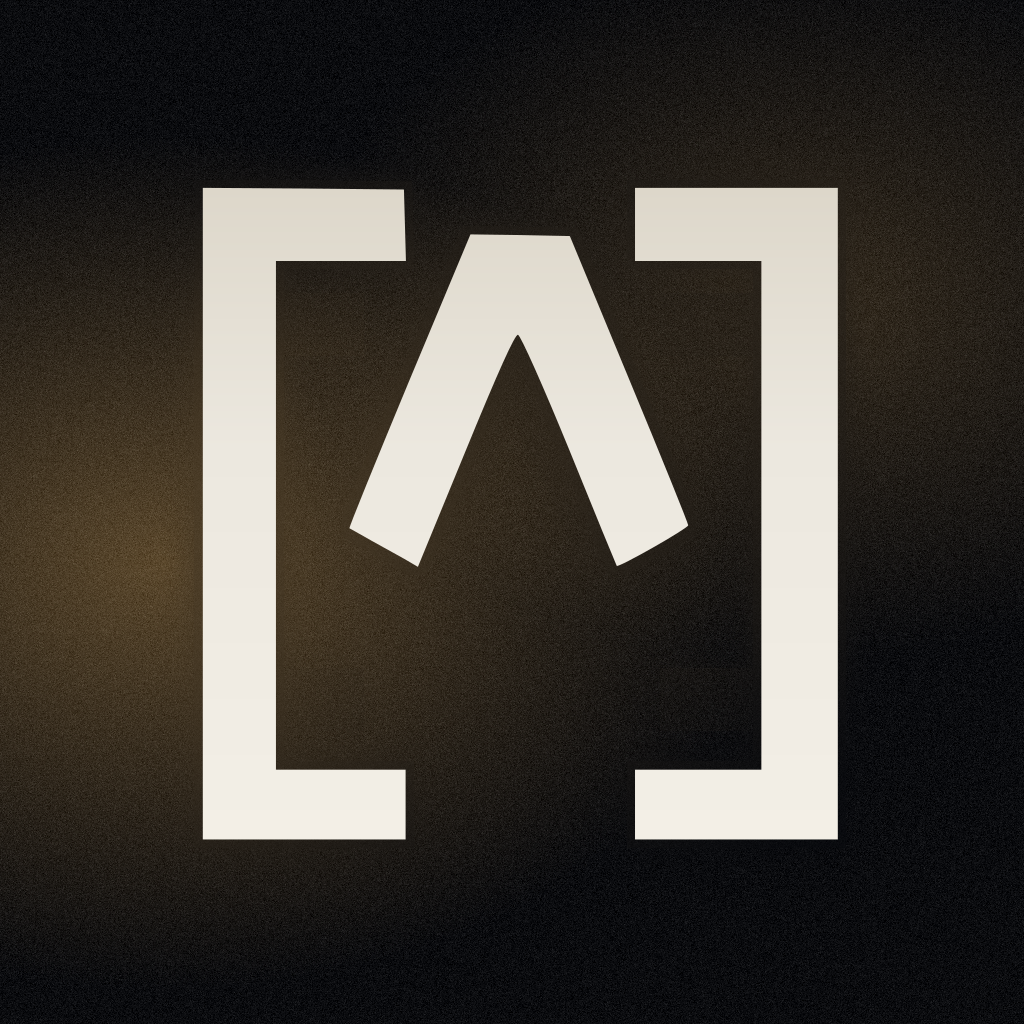
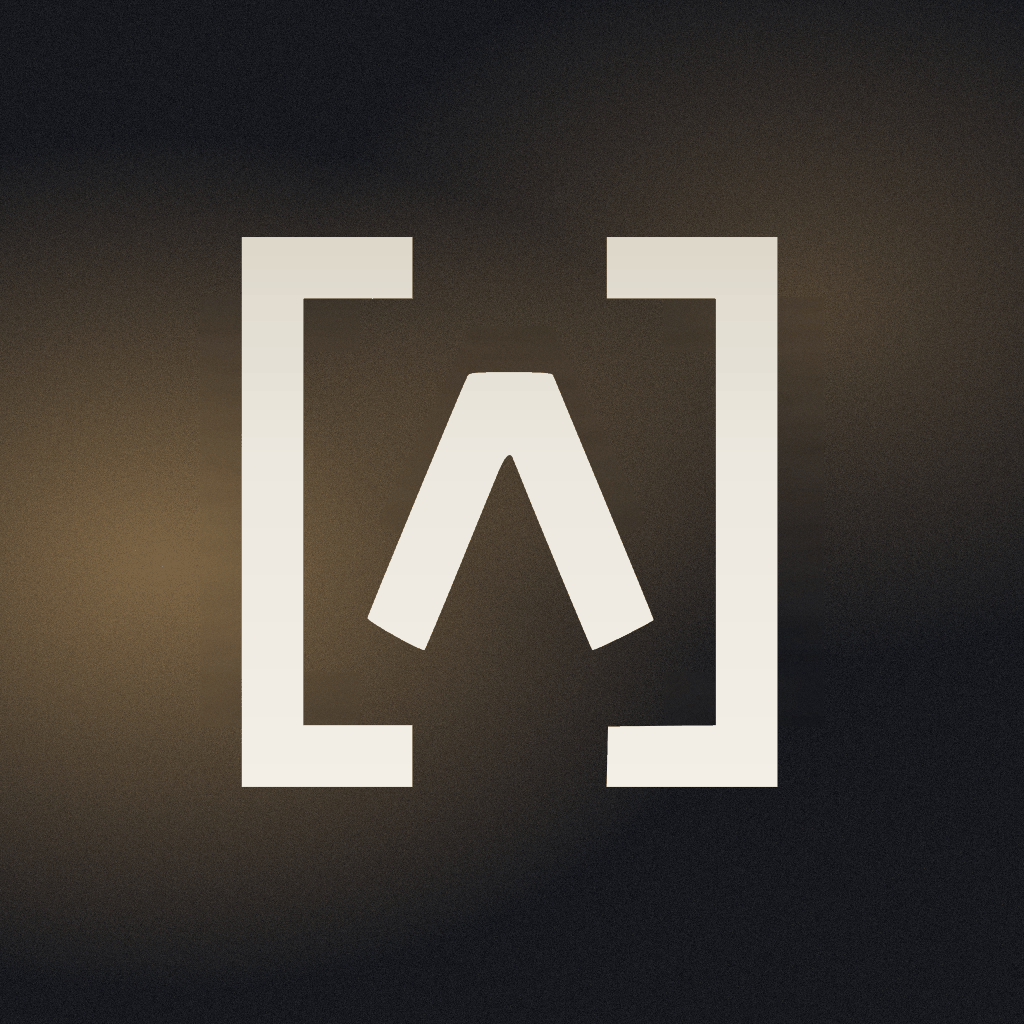
feat(site): adopt the new bracket-A mark for Armitage
- use the traced mark in the chapter icon at 11 of 16 units
- recomposite the avatar on the original background with a lighter glow

diff --git a/index.html b/index.html
@@ -143,7 +143,8 @@
                 <div class="kicker">A project by <a href="https://renanbomtempo.me" target="_blank" rel="noopener">Renan
                         Bomtempo</a></div>
                 <h1><span class="sr-only">EldritchCodex: </span>Exploring <em>rendering</em> and
-                    <em>simulation</em><br>from <em>first principles</em>.</h1>
+                    <em>simulation</em><br>from <em>first principles</em>.
+                </h1>
                 <p>
                     EldritchCodex is an open-source project where I build what I want to understand: Nodens, a
                     C++23 application framework; Nyar, a Vulkan renderer; and Armitage, an agent that keeps my
@@ -200,7 +201,8 @@
             <a class="cell cell--compact col-4 index-card" href="#armitage">
                 <div class="index-meta"><span>III. Python 3.14</span><span>Agent, Skillset &amp; CLI</span></div>
                 <h2>Armitage <span class="arrow">↘</span></h2>
-                <p>Source-grounded agent skills and CLI, best in Zed through the Pi harness and ACP, where it is most thoroughly tested.</p>
+                <p>Source-grounded agent skills and CLI, best in Zed through the Pi harness and ACP, where it is most
+                    thoroughly tested.</p>
             </a>
         </section>
 
@@ -227,7 +229,9 @@
                         Nodens
                     </h2>
                     <p>
-                        A C++23 framework for building interactive desktop applications quickly, with optional Dear ImGui. Everything is a C++ module, so an app starts with <code>import nodens;</code> and links one static library.
+                        A C++23 framework for building interactive desktop applications quickly, with optional Dear
+                        ImGui. Everything is a C++ module, so an app starts with <code>import nodens;</code> and links
+                        one static library.
                     </p>
                 </div>
                 <div class="chapter-stack dep-strip">
@@ -236,11 +240,9 @@
                     <a href="https://www.vulkan.org/" target="_blank" rel="noopener">Vulkan</a>
                     <a href="https://www.glfw.org/" target="_blank" rel="noopener">GLFW</a>
                     <a href="https://glad.dav1d.de/" target="_blank" rel="noopener">GLAD</a>
-                    <a href="https://github.com/ocornut/imgui" target="_blank"
-                        rel="noopener">ImGui</a>
+                    <a href="https://github.com/ocornut/imgui" target="_blank" rel="noopener">ImGui</a>
                     <a href="https://github.com/epezent/implot" target="_blank" rel="noopener">ImPlot</a>
-                    <a href="https://github.com/brenocq/implot3d" target="_blank"
-                        rel="noopener">ImPlot3D</a>
+                    <a href="https://github.com/brenocq/implot3d" target="_blank" rel="noopener">ImPlot3D</a>
                     <a href="https://github.com/gabime/spdlog" target="_blank" rel="noopener">spdlog</a>
                     <a href="https://github.com/wolfpld/tracy" target="_blank" rel="noopener">Tracy</a>
                 </div>
@@ -272,7 +274,8 @@
                 <div class="cell cell--compact col-3 pillar">
                     <span class="idx">03 · Messaging</span>
                     <h4>Event system</h4>
-                    <p>Input events pass down the layers. A thread-safe event bus lets any part publish and subscribe to custom events, handled immediately or queued.</p>
+                    <p>Input events pass down the layers. A thread-safe event bus lets any part publish and subscribe to
+                        custom events, handled immediately or queued.</p>
                 </div>
                 <div class="cell cell--compact col-3 pillar">
                     <span class="idx">04 · Concurrency</span>
@@ -341,14 +344,15 @@
                         Nyar
                     </h2>
                     <p>
-                        A real-time Vulkan 1.3 renderer, built as a separate module for Nodens as a learning exercise. It starts from the Khronos "Drawing a triangle" tutorial and is refactored step by step into a clean rendering API.
+                        A real-time Vulkan 1.3 renderer, built as a separate module for Nodens as a learning exercise.
+                        It starts from the Khronos "Drawing a triangle" tutorial and is refactored step by step into a
+                        clean rendering API.
                     </p>
                 </div>
                 <div class="chapter-stack dep-strip">
                     <span class="label">Stack:</span>
                     <a href="https://en.cppreference.com/w/cpp/23" target="_blank" rel="noopener">C++</a>
-                    <a href="https://docs.vulkan.org/spec/latest/index.html" target="_blank"
-                        rel="noopener">Vulkan</a>
+                    <a href="https://docs.vulkan.org/spec/latest/index.html" target="_blank" rel="noopener">Vulkan</a>
                     <a href="https://github.com/KhronosGroup/Vulkan-Hpp" target="_blank" rel="noopener">Vulkan-Hpp</a>
                     <a href="https://github.com/shader-slang/slang" target="_blank" rel="noopener">Slang</a>
                     <a href="https://www.glfw.org/" target="_blank" rel="noopener">GLFW</a>
@@ -423,11 +427,9 @@
                     </div>
                     <h2 class="has-mark">
                         <svg class="chapter-mark" viewBox="0 0 16 16" fill="none" aria-hidden="true">
-                            <g transform="translate(-0.198 11.035) scale(0.00976 -0.00976)" fill="currentColor">
-                                <path transform="translate(0 0)" d="M183 -138V760H507V661H302V-39H507V-138Z" />
-                                <path transform="translate(540 0)"
-                                    d="M456 239 303 562H291L138 239L27 293L222 698H379L573 293Z" />
-                                <path transform="translate(1080 0)" d="M417 760V-138H93V-39H298V661H93V760Z" />
+                            <g transform="translate(2.5 13.5) scale(0.0044 -0.0044)" fill="currentColor">
+                                <path
+                                    d="M120 1240 l0 -1160 360 0 360 0 0 130 0 130 -230 0 -230 0 0 900 0 900 230 0 230 0 0 130 0 130 -360 0 -360 0 0 -1160z M1660 2270 l0 -130 230 0 230 0 0 -900 0 -900 -227 -2 -228 -3 -3 -127 -3 -128 361 0 360 0 0 1160 0 1160 -360 0 -360 0 0 -130z M1072 1813 c-21 -40 -422 -1010 -422 -1020 0 -15 232 -145 241 -135 4 4 69 158 144 342 75 184 150 368 167 408 28 68 49 88 61 60 96 -241 330 -805 336 -811 5 -5 233 107 259 128 1 1 -93 231 -209 511 -116 280 -213 515 -216 522 -4 9 -49 12 -179 12 -155 0 -174 -2 -182 -17z" />
                             </g>
                         </svg>
                         Armitage
@@ -452,10 +454,8 @@
                     <a href="https://docs.trychroma.com/" target="_blank" rel="noopener">ChromaDB</a>
                     <a href="https://ollama.com/" target="_blank" rel="noopener">Ollama</a>
                     <a href="https://github.com/QwenLM/Qwen3" target="_blank" rel="noopener">Qwen3</a>
-                    <a href="https://tree-sitter.github.io/" target="_blank"
-                        rel="noopener">tree-sitter</a>
-                    <a href="https://pypi.org/project/pyzotero/" target="_blank"
-                        rel="noopener">PyZotero</a>
+                    <a href="https://tree-sitter.github.io/" target="_blank" rel="noopener">tree-sitter</a>
+                    <a href="https://pypi.org/project/pyzotero/" target="_blank" rel="noopener">PyZotero</a>
                     <a href="https://sqlite.org/fts5.html" target="_blank" rel="noopener">SQLite FTS5</a>
                     <a href="https://www.zotero.org/" target="_blank" rel="noopener">Zotero</a>
                     <a href="https://obsidian.md/" target="_blank" rel="noopener">Obsidian</a>
@@ -472,7 +472,8 @@
                 <div class="cell cell--flush col-12">
                     <div class="table-head table-head--row">
                         <h3>Ways to use it</h3>
-                        <p>The skills and CLI are the portable base; the best way to use Armitage is inside Zed, through Pi and ACP.</p>
+                        <p>The skills and CLI are the portable base; the best way to use Armitage is inside Zed, through
+                            Pi and ACP.</p>
                     </div>
                 </div>
             </div>
@@ -481,17 +482,21 @@
                 <div class="cell cell--compact col-4 pillar">
                     <span class="idx">Core</span>
                     <h4>Skills &amp; CLI</h4>
-                    <p>Instructions for your coding agent, plus a CLI that maintains memory and searches your code and Zotero library. No Pi or Zed required.</p>
+                    <p>Instructions for your coding agent, plus a CLI that maintains memory and searches your code and
+                        Zotero library. No Pi or Zed required.</p>
                 </div>
                 <div class="cell cell--compact col-4 pillar">
                     <span class="idx">Optional · powers Zed</span>
                     <h4>Custom Pi environment</h4>
-                    <p>A dedicated agent environment built around Armitage's workflow. Run it in the terminal with <code>armitage pi</code>, or from Zed through ACP.</p>
+                    <p>A dedicated agent environment built around Armitage's workflow. Run it in the terminal with
+                        <code>armitage pi</code>, or from Zed through ACP.
+                    </p>
                 </div>
                 <div class="cell cell--compact col-4 pillar">
                     <span class="idx">Best · needs Pi</span>
                     <h4>Zed via ACP</h4>
-                    <p>Run the Pi harness in Zed's Agent Panel through the Agent Client Protocol instead of a terminal. The best way to use Armitage, and the most thoroughly tested.</p>
+                    <p>Run the Pi harness in Zed's Agent Panel through the Agent Client Protocol instead of a terminal.
+                        The best way to use Armitage, and the most thoroughly tested.</p>
                 </div>
             </div>
 
@@ -499,7 +504,11 @@
                 <div class="cell cell--flush col-12">
                     <div class="table-head">
                         <h3>What an answer looks like</h3>
-                        <p>Three illustrative threads in Zed: a code question, a Vulkan question answered from Zotero, and one answered from memory and checked against the code. Every claim is footnoted to its source, and what it cannot source is marked. References are clickable: code opens the file at the cited line, Zotero opens the paper at the cited page or the saved web page at the passage.</p>
+                        <p>Three illustrative threads in Zed: a code question, a Vulkan question answered from Zotero,
+                            and one answered from memory and checked against the code. Every claim is footnoted to its
+                            source, and what it cannot source is marked. References are clickable: code opens the file
+                            at the cited line, Zotero opens the paper at the cited page or the saved web page at the
+                            passage.</p>
                     </div>
                     <div class="zed-wrap">
                         <div class="zed-deck" id="zed-deck">
@@ -677,8 +686,11 @@
                 <div class="cell col-5">
                     <div class="kicker">Where it looks</div>
                     <ul class="notes">
-                        <li><strong>Memory</strong> (<code>armitage memory</code>): the agent's own notes, kept as Markdown in an Obsidian vault: plans, decisions, concepts and your profile.</li>
-                        <li><strong>Papers, books and web pages</strong> (<code>armitage zotero</code>): your local Zotero 7+ library, read-only: PDFs (with OCR for scans), EPUBs by chapter, and saved HTML snapshots.</li>
+                        <li><strong>Memory</strong> (<code>armitage memory</code>): the agent's own notes, kept as
+                            Markdown in an Obsidian vault: plans, decisions, concepts and your profile.</li>
+                        <li><strong>Papers, books and web pages</strong> (<code>armitage zotero</code>): your local
+                            Zotero 7+ library, read-only: PDFs (with OCR for scans), EPUBs by chapter, and saved HTML
+                            snapshots.</li>
                         <li><strong>Code</strong> (<code>armitage code</code>): an index of your repositories, shared
                             across branches and worktrees. Looking up a symbol or where it is used needs no AI
                             model.</li>
@@ -725,7 +737,10 @@
                 <div class="cell cell--flush col-12">
                     <div class="table-head">
                         <h3>The skills</h3>
-                        <p>Instructions the agent follows. <strong>Starts</strong> shows who triggers a skill: <em>You</em> invoke it by name, <em>Agent</em> means the model loads it itself, <em>Either</em> works both ways.</p>
+                        <p>Instructions the agent follows. <strong>Starts</strong> shows who triggers a skill:
+                            <em>You</em> invoke it by name, <em>Agent</em> means the model loads it itself,
+                            <em>Either</em> works both ways.
+                        </p>
                     </div>
                     <div class="skill-filters" role="group" aria-label="Filter skills by category" hidden>
                         <button type="button" class="skill-filter" data-filter="all" aria-pressed="true">All</button>
@@ -751,7 +766,9 @@
                             <tr data-cat="core">
                                 <td>armitage</td>
                                 <td>Agent</td>
-                                <td>The citation gate. Before answering a factual question, it searches memory, code and papers and cites every claim inline. A claim with no source is cut or marked unverified.</td>
+                                <td>The citation gate. Before answering a factual question, it searches memory, code and
+                                    papers and cites every claim inline. A claim with no source is cut or marked
+                                    unverified.</td>
                             </tr>
                             <tr data-cat="planning">
                                 <td>armitage-init</td>
@@ -774,12 +791,14 @@
                             <tr data-cat="research">
                                 <td>armitage-research</td>
                                 <td>You</td>
-                                <td>Answers a hard question end to end: plans the research, waits for your approval, reads each source, and reports with the exact Zotero page behind every finding.</td>
+                                <td>Answers a hard question end to end: plans the research, waits for your approval,
+                                    reads each source, and reports with the exact Zotero page behind every finding.</td>
                             </tr>
                             <tr data-cat="research">
                                 <td>armitage-consolidate</td>
                                 <td>You</td>
-                                <td>Turns a reviewed research report into linked memory notes and an Obsidian canvas, written only after you approve.</td>
+                                <td>Turns a reviewed research report into linked memory notes and an Obsidian canvas,
+                                    written only after you approve.</td>
                             </tr>
                             <tr data-cat="research">
                                 <td>armitage-tutor</td>
@@ -790,7 +809,8 @@
                             <tr data-cat="engineering">
                                 <td>armitage-swe</td>
                                 <td>Agent</td>
-                                <td>Before a big change (over 3 files or 80 lines, a new feature, a migration), writes a design plan and asks its open questions. Implements only after you approve.</td>
+                                <td>Before a big change (over 3 files or 80 lines, a new feature, a migration), writes a
+                                    design plan and asks its open questions. Implements only after you approve.</td>
                             </tr>
                             <tr data-cat="engineering">
                                 <td>armitage-issues</td>
